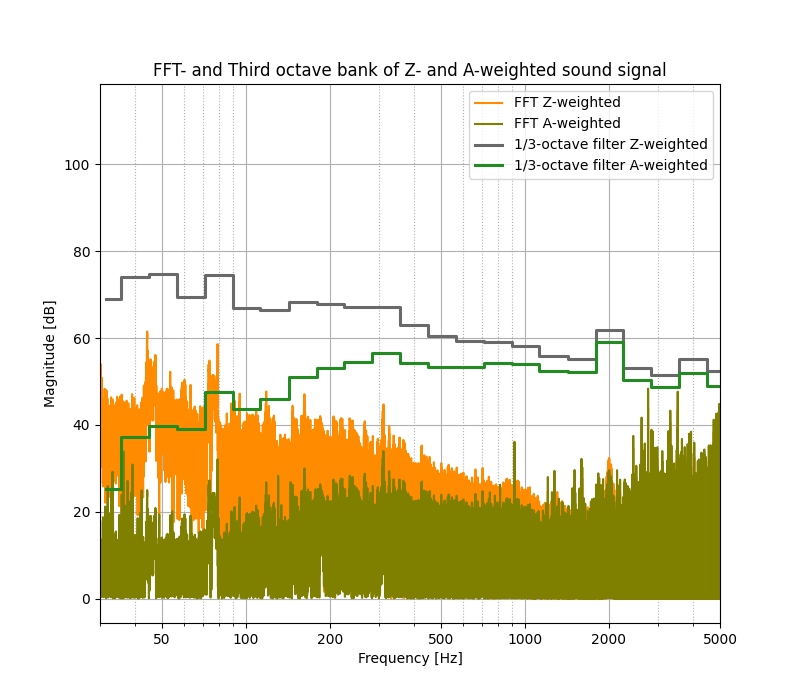
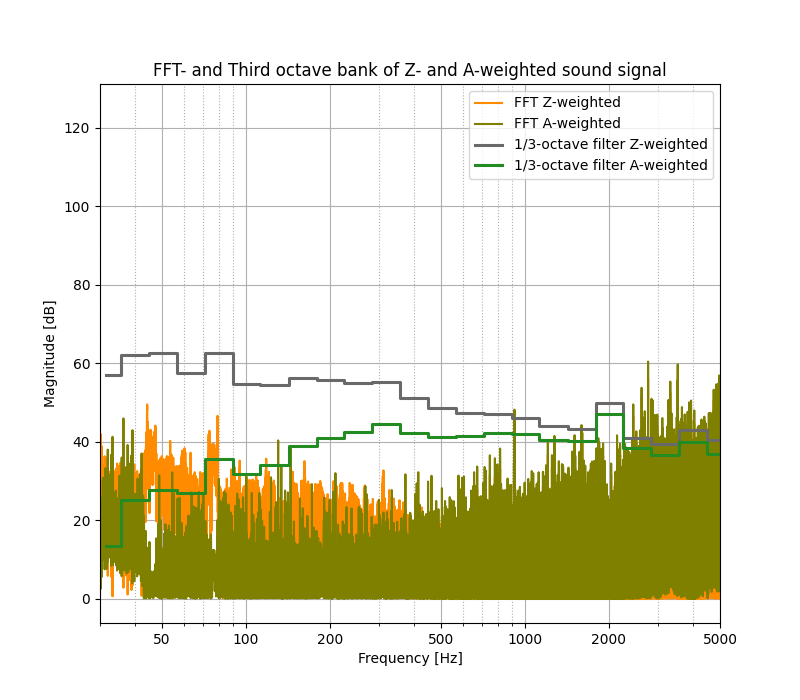
Final - Weird FFT having 3dB more/ore less - fixed

diff --git a/A0.py b/A0.py
@@ -59,10 +59,8 @@ def _Lp_from_freq(fft, freq):
 
 def _fft_signal(array, fs):
     N = len(array)
-    fft = np.fft.fft(array, fs)
-    freq = np.fft.fftfreq(len(fft), d=1/fs)
     y = np.fft.fft(array)[0:int(N/2)]/N
-    y[0:] = 2*y[0:]
+    y = 1.41*y
     p_y = 20*np.log10(np.abs(y) / values.p0)
     f = fs*np.arange((N/2))/N
     return f, p_y
@@ -198,9 +196,9 @@ def _plot_fft_and_third_oct(freq, fft, third_oct_val, third_oct_step, fft_A, fre
     return Lp_fft, Lp_fft_A, Lp_third_oct, Lp_third_oct_A
 
 def _print_stuff(fs_sound_file=0, sound_file=0, cal_before=0, cal_after=0, A=0, Lp_fft=0, Lp_fft_A=0, third_oct=0, third_oct_A=0, cal_before_Lp=0,cal_after_Lp=0, array=0):
-    print("********************\n")
+    print("********** -- Important values -- **********\n")
     
-    print("Sampling frequency: {0} Hz -- length of file {1} minutes\nStart point: {2} s -- End point: {3} s"
+    print("Sampling frequency: {0} Hz -- length of file {1} Seconds \nStart point: {2} s -- End point: {3} s"
           .format(fs_cal, len(array)/fs_cal, values.start, values.stop))
     
     print("Scaling factor A={}".format(round(A,1)))
@@ -212,7 +210,7 @@ def _print_stuff(fs_sound_file=0, sound_file=0, cal_before=0, cal_after=0, A=0, 
     
     print("\t\t Z-weighted \t A-weighted\n Lp,fft\t\t{0:.1f} dB\t\t{1:.1f} dB\n Lp,1/3 \t{2:.1f} dB \t{3:.1f} dB".format(Lp_fft, Lp_fft_A, third_oct, third_oct_A))
     
-    print("\n********************")
+    print("\n******************************************")
 
 
 if __name__ == '__main__':

diff --git a/values.py b/values.py
@@ -1,7 +1,7 @@
 p0 = 20*10**(-6)
 cal_value = 94
-start = 0
-stop = 60
+start = 40
+stop = 41
 third_octave_start = 4
 
 x_ticks_third_octave = [50, 100, 200, 500, 1000, 2000, 5000]
